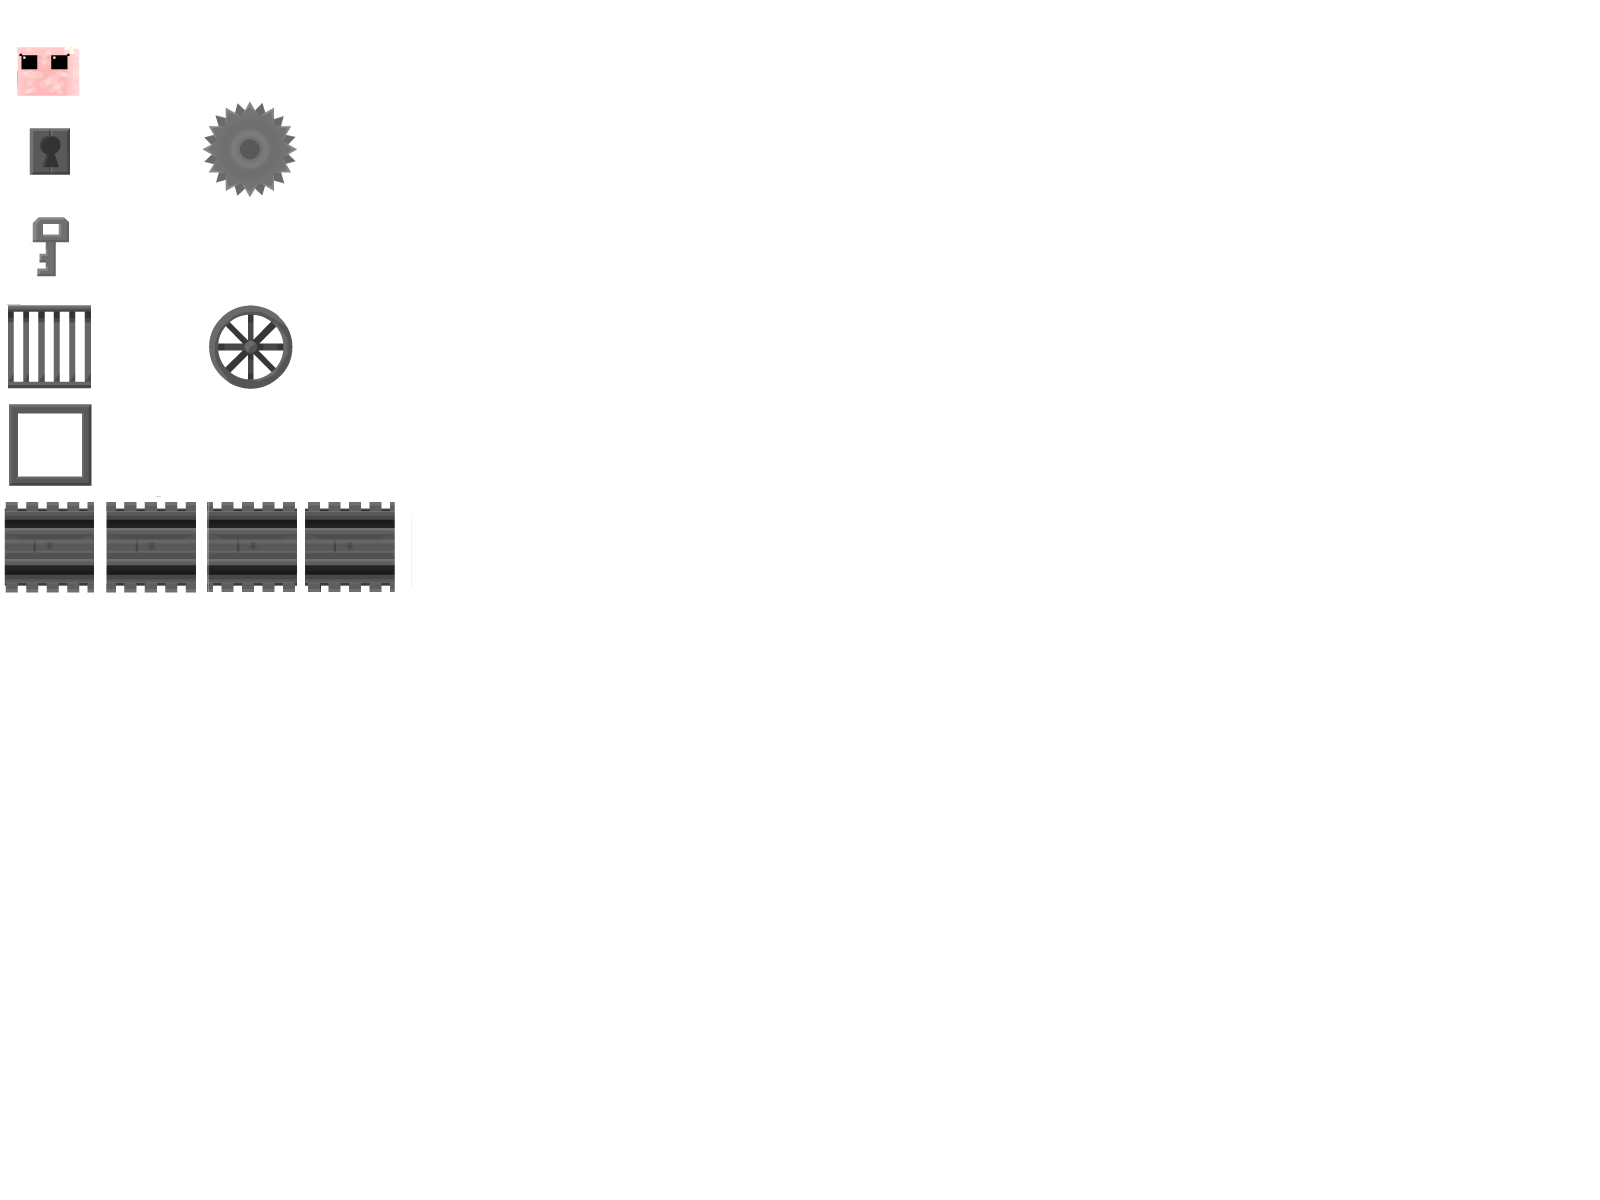
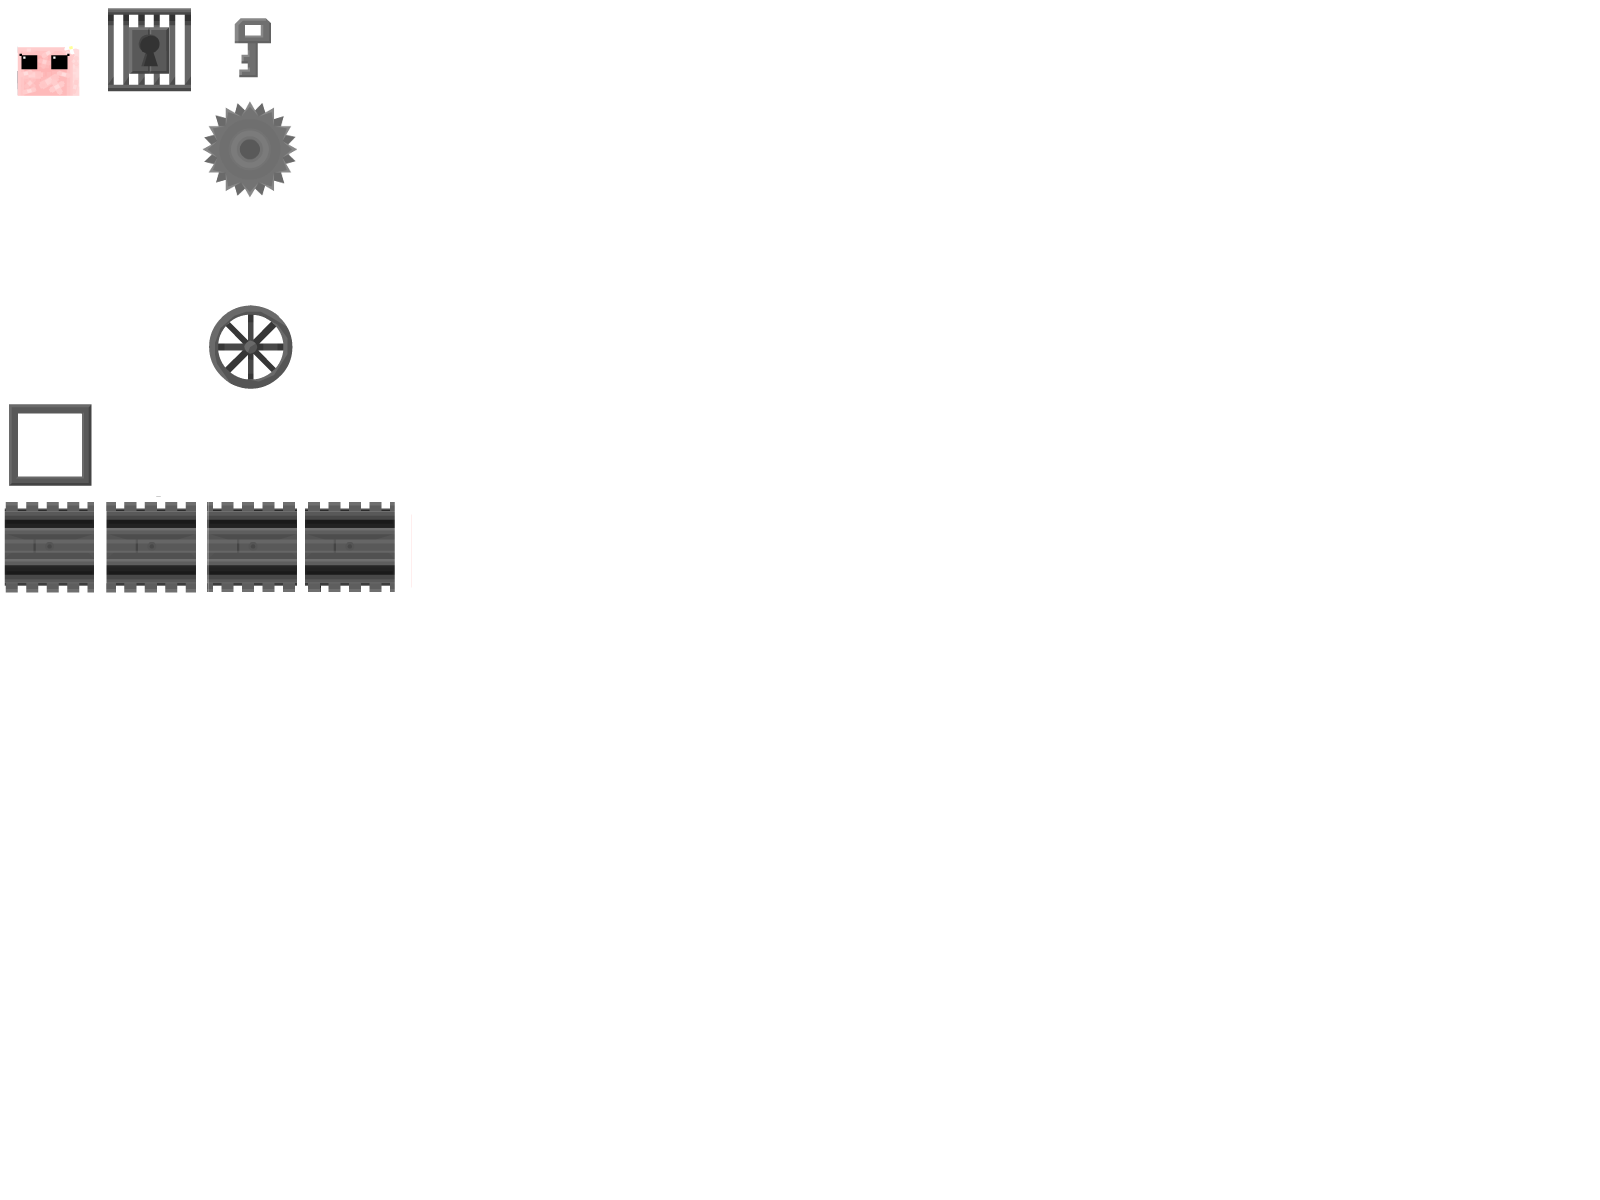
Agregadas llaves y cerrojos
Agregados llaves y cerrojos y sistema para encadenar su apertura
Modificado utilities.png para tener cerrojos y llaves

Changed region(s): [[0.0625, 0.0, 0.1875, 0.0925], [0.0, 0.185, 0.0625, 0.3392], [0.0, 0.0925, 0.0625, 0.1542]]

diff --git a/game.js b/game.js
@@ -399,6 +399,59 @@ var Q = window.Q = Quintus()
 		}
 	});
 
+	//Para usar en Tiled, establecer campo ukey al valor de la key que lo activara y tkey para que active a su vez otra
+	Q.Sprite.extend("Keyhole",{
+		init: function(p){
+			this._super(p, {
+				 sheet: "utilities",
+				 frame: 55,
+				 scale: 0.75,
+				 collision: true,
+				 gravity: 0,
+				 ukey: -1, 	//unlockKey
+				 tkey: -1  //triggerNextKey
+			 });
+			this.p.points = [];
+			this.p.points.push([-41.5,-41.5]);
+			this.p.points.push([-41.5,41.5]);
+			this.p.points.push([41.5,-41.5]);
+			this.p.points.push([41.5,41.5]);
+
+			Q.state.on("change.key", this, "unlock");
+			this.add("tween");			
+		},
+		unlock: function(){
+			if(Q.state.get("key") != this.p.ukey) return;
+			Q.state.set("key",this.p.tkey);
+			this.animate({ scale: 0 }, 1.5, Q.Easing.Quadratic.Out, { callback: function(){ this.destroy(); } });
+		}
+	});
+
+	//Para usar en Tiled, establecer campo key al valor de la key que va a activar
+	Q.Sprite.extend("Key",{
+		init: function(p){
+			this._super(p, {
+				 sheet: "utilities",
+				 frame: 55,
+				 scale: 0.5,
+				 sensor: true,
+				 key: -1
+			 });
+			this.p.points = [];
+			this.p.points.push([-15.5,-33]);
+			this.p.points.push([-15.5,27]);
+			this.p.points.push([21.5,27]);
+			this.p.points.push([21.5,-33]);
+
+			this.on("sensor", this, "pick");			
+		},
+		pick: function(collision){
+			if(!collision.isA("SuperMeatBoy")) return;
+			Q.state.set("key",this.p.key);
+			this.destroy();
+		}
+	});
+
 	Q.Sprite.extend("ModTilesObj",{
 			init: function(p) {
 				
@@ -479,6 +532,9 @@ var Q = window.Q = Quintus()
 		Q.animations("sawDesAnim", {
 			destroySaw: { frames: [0,1,2,3,4], loop: false, rate: 1/10, trigger: "sawDess"}
 		});
+
+		//Estado que lleva el id de la llave activada en este momento
+		Q.state.reset({ key: -2 });
 
 		Q.scene("level1", function (stage){
 		
